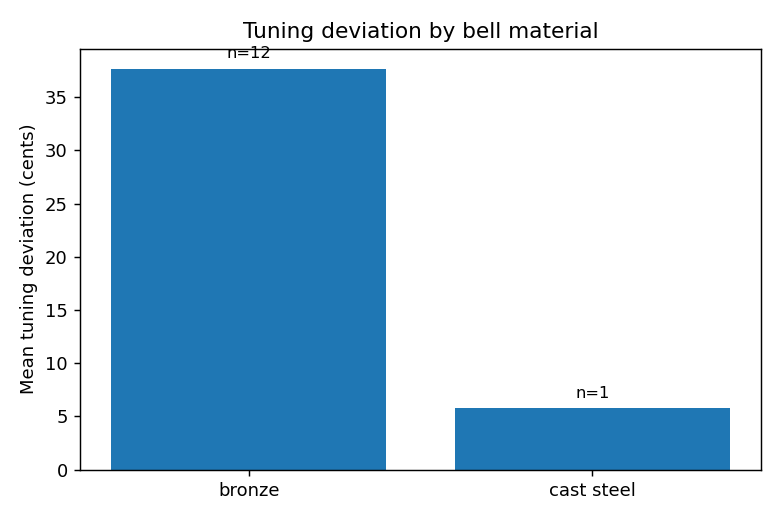
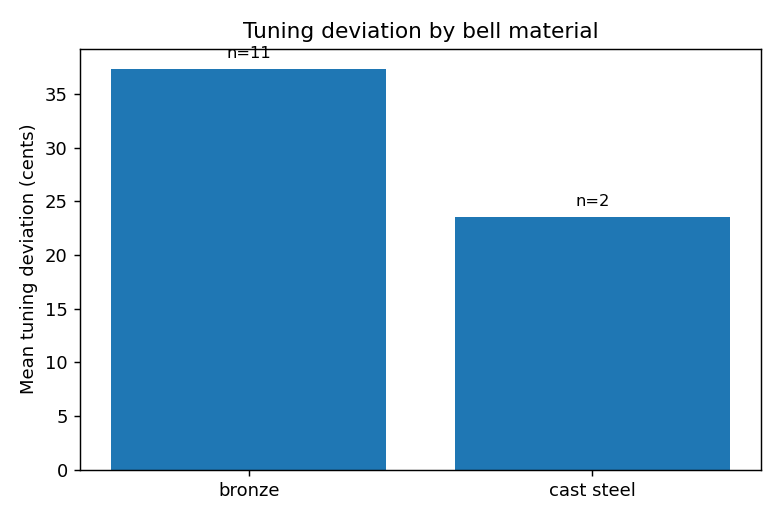
Fix St. Heinrich church misattribution; rerun analysis pipeline with corrected metadata; add per-church labeled-peaks demo generator; make script paths portable

diff --git a/02_code/make_labeled_peaks.py b/02_code/make_labeled_peaks.py
@@ -1,69 +1,140 @@
 """
-Builds a clear, labeled "peaks of an individual strike" figure for the
-presentation: trimmed waveform on top, FFT magnitude spectrum below with
-the five detected partials marked and labeled (hum, prime, tierce,
-quint, nominal) -- exactly what was requested: clearly visible peaks
-of one individual, trimmed bell strike, not a generic spectrogram.
+Builds a clear, labeled "peaks of an individual strike" figure and a
+matching short playable audio clip, for any church, not just Dormplatz.
+
+Usage:
+    python3 make_labeled_peaks.py                  -> Dormplatz (default)
+    python3 make_labeled_peaks.py st_michael        -> St. Michael
+    python3 make_labeled_peaks.py --all             -> every church
+
+For each church this produces two files in 03_spectrograms/demo_peaks/:
+    <church>_labeled_peaks.png   waveform + FFT with hum/prime/tierce/
+                                  quint/nominal partials marked
+    <church>_trimmed_strike.wav  ~1.2s clip of a single clean strike,
+                                  playable directly for a professor or
+                                  in a presentation, instead of having
+                                  to scrub through a multi-minute
+                                  original recording.
 """
 import sys
-sys.path.insert(0, "/home/claude/FINAL/code")
+import os
+SCRIPT_DIR = os.path.dirname(os.path.abspath(__file__))
+ROOT = os.path.dirname(SCRIPT_DIR)  # parent of 02_code = COMPLETE_PROJECT
+sys.path.insert(0, SCRIPT_DIR)
 import numpy as np
 import librosa
+import soundfile as sf
 import matplotlib
 matplotlib.use("Agg")
 import matplotlib.pyplot as plt
 from extract_features import find_spectral_peaks, identify_partials, N_FFT
 
-PATH = "/home/claude/project/COMPLETE_PROJECT/01_data/strikes_segmented/dormplatz/dormplatz_strike003.flac"
-OUT = "/home/claude/FINAL/term_paper/figures/labeled_peaks_dormplatz.png"
-OUT2 = "/home/claude/project/COMPLETE_PROJECT/03_spectrograms/labeled_peaks_dormplatz.png"
+STRIKES_DIR = os.path.join(ROOT, "01_data/strikes_segmented")
+OUT_DIR = os.path.join(ROOT, "03_spectrograms/demo_peaks")
+os.makedirs(OUT_DIR, exist_ok=True)
 
 SR = 48000
-y, sr = librosa.load(PATH, sr=SR, mono=True)
+DISPLAY_DUR = 1.2  # seconds of a single clean strike to show/export
 
-peak_freqs, peak_mags = find_spectral_peaks(y, sr)
-partials, prime_freq = identify_partials(peak_freqs, peak_mags)
-print("Detected partials:", partials)
+# A representative, known-good strike file per church. These were
+# picked as clean, well-isolated single strikes. Set to None to just
+# auto-pick the first usable clip in that church's folder.
+DEFAULT_STRIKE = {
+    "dormplatz":          "dormplatz_strike003.flac",
+    "bamberg_cathedral":  None,
+    "evangelical_church": None,
+    "gruner_markt":       None,
+    "karmelite_kloster":  None,
+    "obere_pfarre":       None,
+    "pestallozistrasse":  None,
+    "st_heinrich":        None,
+    "st_jakob":           None,
+    "st_michael":         None,
+    "st_nicholas_church": None,
+    "st_stephan":         None,
+    "st_stephan_2":       None,
+}
 
-# full FFT for plotting (same window as feature extraction)
-window = np.hanning(min(len(y), N_FFT))
-if len(y) < N_FFT:
-    y_padded = np.pad(y, (0, N_FFT - len(y)))
-    spec = np.abs(np.fft.rfft(y_padded * window))
-else:
-    spec = np.abs(np.fft.rfft(y[:N_FFT] * window))
-freqs = np.fft.rfftfreq(N_FFT, d=1.0 / sr)
-spec_db = 20 * np.log10(np.maximum(spec, 1e-6))
-spec_db -= spec_db.max()
 
-fig, (ax1, ax2) = plt.subplots(2, 1, figsize=(8, 6))
+def pick_strike_file(church):
+    forced = DEFAULT_STRIKE.get(church)
+    church_dir = os.path.join(STRIKES_DIR, church)
+    if forced:
+        return os.path.join(church_dir, forced)
+    files = sorted(f for f in os.listdir(church_dir) if f.endswith((".wav", ".flac")))
+    for f in files:
+        full = os.path.join(church_dir, f)
+        if os.path.getsize(full) > 1000:
+            return full
+    raise FileNotFoundError(f"No usable strike file found for {church}")
 
-display_dur = min(1.2, len(y) / sr)
-n_display = int(display_dur * sr)
-t = np.arange(n_display) / sr
-ax1.plot(t, y[:n_display], color="#1E2761", linewidth=0.8)
-ax1.set_xlim(0, display_dur)
-ax1.set_xlabel("Time (s)")
-ax1.set_ylabel("Amplitude")
-ax1.set_title("Trimmed individual strike -- Dormplatz (first 1.2s shown)")
 
-mask = freqs < 2000
-ax2.plot(freqs[mask], spec_db[mask], color="#1E2761", linewidth=1)
-ax2.set_xlabel("Frequency (Hz)")
-ax2.set_ylabel("Magnitude (dB, normalised)")
-ax2.set_title("FFT spectrum -- partials labeled")
-ax2.set_ylim(-60, 14)
+def make_demo(church):
+    path = pick_strike_file(church)
+    y, sr = librosa.load(path, sr=SR, mono=True)
 
-colors = {"hum": "#D4A017", "prime": "#990011", "tierce": "#028090",
-          "quint": "#2C5F2D", "nominal": "#6D2E46"}
-order = sorted(partials.items(), key=lambda kv: kv[1])
-for i, (name, freq) in enumerate(order):
-    y_text = 4 + (i % 3) * 4.5
-    ax2.axvline(freq, color=colors.get(name, "gray"), linestyle="--", linewidth=1.3)
-    ax2.annotate(f"{name}: {freq:.0f} Hz", xy=(freq, y_text), xytext=(freq, y_text),
-                 ha="center", fontsize=8.5, color=colors.get(name, "gray"), fontweight="bold")
+    peak_freqs, peak_mags = find_spectral_peaks(y, sr)
+    partials, prime_freq = identify_partials(peak_freqs, peak_mags)
+    print(f"[{church}] file={os.path.basename(path)} detected partials:", partials)
 
-plt.tight_layout()
-plt.savefig(OUT, dpi=150)
-plt.savefig(OUT2, dpi=150)
-print(f"Saved -> {OUT}")
+    window = np.hanning(min(len(y), N_FFT))
+    if len(y) < N_FFT:
+        y_padded = np.pad(y, (0, N_FFT - len(y)))
+        spec = np.abs(np.fft.rfft(y_padded * window))
+    else:
+        spec = np.abs(np.fft.rfft(y[:N_FFT] * window))
+    freqs = np.fft.rfftfreq(N_FFT, d=1.0 / sr)
+    spec_db = 20 * np.log10(np.maximum(spec, 1e-6))
+    spec_db -= spec_db.max()
+
+    fig, (ax1, ax2) = plt.subplots(2, 1, figsize=(8, 6))
+
+    display_dur = min(DISPLAY_DUR, len(y) / sr)
+    n_display = int(display_dur * sr)
+    t = np.arange(n_display) / sr
+    ax1.plot(t, y[:n_display], color="#1E2761", linewidth=0.8)
+    ax1.set_xlim(0, display_dur)
+    ax1.set_xlabel("Time (s)")
+    ax1.set_ylabel("Amplitude")
+    ax1.set_title(f"Trimmed individual strike -- {church} (first {display_dur:.1f}s shown)")
+
+    mask = freqs < 2000
+    ax2.plot(freqs[mask], spec_db[mask], color="#1E2761", linewidth=1)
+    ax2.set_xlabel("Frequency (Hz)")
+    ax2.set_ylabel("Magnitude (dB, normalised)")
+    ax2.set_title("FFT spectrum -- partials labeled")
+    ax2.set_ylim(-60, 14)
+
+    colors = {"hum": "#D4A017", "prime": "#990011", "tierce": "#028090",
+              "quint": "#2C5F2D", "nominal": "#6D2E46"}
+    order = sorted(partials.items(), key=lambda kv: kv[1])
+    for i, (name, freq) in enumerate(order):
+        y_text = 4 + (i % 3) * 4.5
+        ax2.axvline(freq, color=colors.get(name, "gray"), linestyle="--", linewidth=1.3)
+        ax2.annotate(f"{name}: {freq:.0f} Hz", xy=(freq, y_text), xytext=(freq, y_text),
+                     ha="center", fontsize=8.5, color=colors.get(name, "gray"), fontweight="bold")
+
+    plt.tight_layout()
+    fig_path = os.path.join(OUT_DIR, f"{church}_labeled_peaks.png")
+    plt.savefig(fig_path, dpi=150)
+    plt.close()
+
+    # Also export the trimmed audio itself, playable directly instead of
+    # scrubbing through the original multi-second/minute recording.
+    clip_path = os.path.join(OUT_DIR, f"{church}_trimmed_strike.wav")
+    sf.write(clip_path, y[:n_display], sr)
+
+    print(f"  -> {fig_path}")
+    print(f"  -> {clip_path}")
+
+
+if __name__ == "__main__":
+    if len(sys.argv) > 1 and sys.argv[1] == "--all":
+        for church in DEFAULT_STRIKE:
+            try:
+                make_demo(church)
+            except Exception as e:
+                print(f"[{church}] skipped: {e}")
+    else:
+        church = sys.argv[1] if len(sys.argv) > 1 else "dormplatz"
+        make_demo(church)

diff --git a/02_code/run_analysis.py b/02_code/run_analysis.py
@@ -23,7 +23,8 @@ from sklearn.neural_network import MLPClassifier
 from sklearn.model_selection import LeaveOneOut
 from sklearn.preprocessing import StandardScaler
 
-ROOT = "/home/claude/project/COMPLETE_PROJECT"
+SCRIPT_DIR = os.path.dirname(os.path.abspath(__file__))
+ROOT = os.path.dirname(SCRIPT_DIR)  # parent of 02_code = COMPLETE_PROJECT
 RESULTS_DIR = os.path.join(ROOT, "04_results")
 MAX_STRIKES_PER_CHURCH = 15
 
@@ -61,9 +62,9 @@ METADATA = {
     "st_michael":         dict(church="St. Michael", bell_name="Michaelsglocke",
                                 casting_year=1614, material="bronze", founder="Hans Pfeffer",
                                 lat=49.8932, lon=10.8776, certainty="documented"),
-    "st_heinrich":        dict(church="St. Michael", bell_name="Heinrichsglocke (St. Michael)",
-                                casting_year=1794, material="bronze", founder="unknown",
-                                lat=49.8932, lon=10.8776, certainty="documented"),
+    "st_heinrich":        dict(church="St. Heinrich", bell_name="unnamed",
+                                casting_year=1956, material="cast steel", founder="Bochumer Verein f\u00fcr Gussstahlfabrikation",
+                                lat=49.904081, lon=10.909031, certainty="documented (corrected: independent parish church, Eugen-Pacelli-Platz 1, previously misattributed to St. Michael)"),
     "st_nicholas_church": dict(church="St. Nikolaus", bell_name="unnamed",
                                 casting_year=None, material="bronze", founder="unknown",
                                 lat=49.8870, lon=10.8780, certainty="PROVISIONAL - unverified"),

diff --git a/02_code/make_figures.py b/02_code/make_figures.py
@@ -15,10 +15,11 @@ import matplotlib
 matplotlib.use("Agg")
 import matplotlib.pyplot as plt
 
-ROOT = "/home/claude/project/COMPLETE_PROJECT"
+SCRIPT_DIR = os.path.dirname(os.path.abspath(__file__))
+ROOT = os.path.dirname(SCRIPT_DIR)  # parent of 02_code = COMPLETE_PROJECT
 RESULTS_DIR = os.path.join(ROOT, "04_results")
 FIG_DIR = os.path.join(ROOT, "03_spectrograms")
-PAPER_FIG_DIR = "/home/claude/FINAL/term_paper/figures"
+PAPER_FIG_DIR = os.path.join(ROOT, "06_term_paper", "figures")
 os.makedirs(FIG_DIR, exist_ok=True)
 os.makedirs(PAPER_FIG_DIR, exist_ok=True)
 

diff --git a/02_code/segment_strikes.py b/02_code/segment_strikes.py
@@ -76,8 +76,9 @@ TARGETS = {
 }
 
 if __name__ == "__main__":
-    ROOT = "/home/claude/project/COMPLETE_PROJECT"
-    OUT_BASE = "/home/claude/project/COMPLETE_PROJECT/01_data/strikes_segmented"
+    SCRIPT_DIR = os.path.dirname(os.path.abspath(__file__))
+    ROOT = os.path.dirname(SCRIPT_DIR)  # parent of 02_code = COMPLETE_PROJECT
+    OUT_BASE = os.path.join(ROOT, "01_data/strikes_segmented")
     all_new = []
     for bell_id, rel_path in TARGETS.items():
         in_path = os.path.join(ROOT, rel_path)

diff --git a/02_code/build_map.py b/02_code/build_map.py
@@ -11,7 +11,8 @@ import json
 import base64
 import pandas as pd
 
-ROOT = "/home/claude/project/COMPLETE_PROJECT"
+SCRIPT_DIR = os.path.dirname(os.path.abspath(__file__))
+ROOT = os.path.dirname(SCRIPT_DIR)  # parent of 02_code = COMPLETE_PROJECT
 RESULTS_DIR = os.path.join(ROOT, "04_results")
 AUDIO_DIR = os.path.join(ROOT, "05_map/map_audio")
 SPECTROGRAM_DIR = os.path.join(ROOT, "03_spectrograms/per_church")

diff --git a/02_code/extract_features.py b/02_code/extract_features.py
@@ -165,7 +165,8 @@ def process_strike(path, bell_id, strike_num):
 
 
 def main():
-    ROOT = "/home/claude/project/COMPLETE_PROJECT"
+    SCRIPT_DIR = os.path.dirname(os.path.abspath(__file__))
+    ROOT = os.path.dirname(SCRIPT_DIR)  # parent of 02_code = COMPLETE_PROJECT
     STRIKES_DIR = os.path.join(ROOT, "01_data/strikes_segmented")
     OUT_DIR = os.path.join(ROOT, "04_results")
     os.makedirs(OUT_DIR, exist_ok=True)